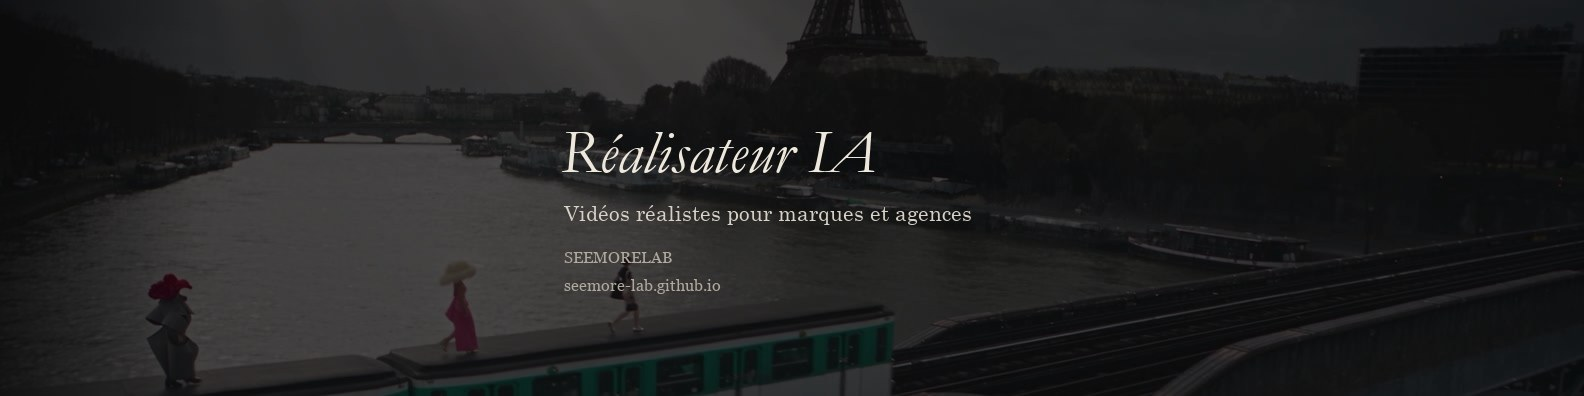
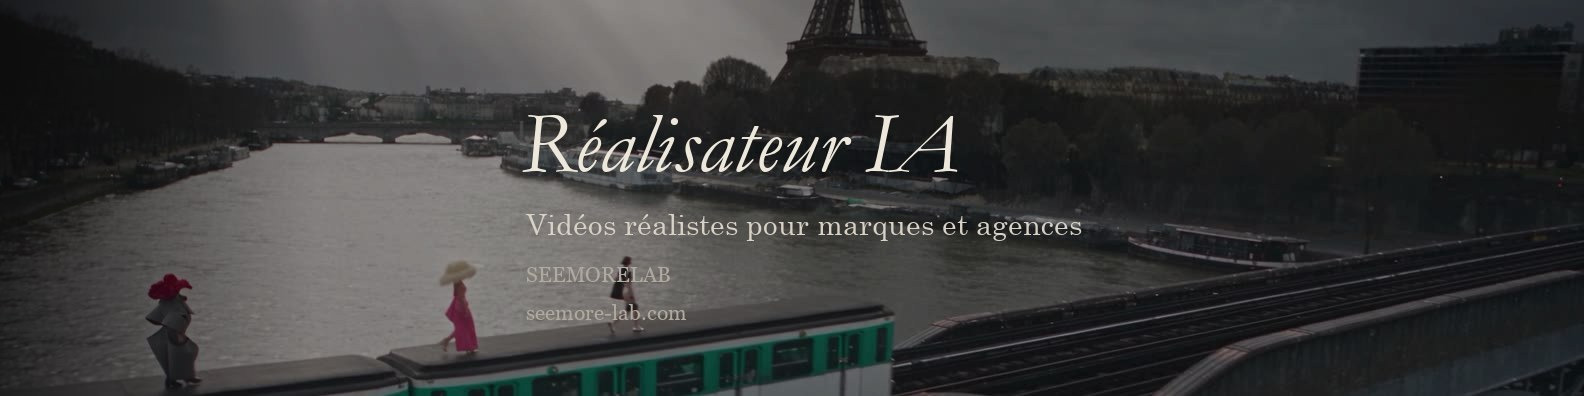
Contact : ajout du lien LinkedIn

diff --git a/index.html b/index.html
@@ -40,7 +40,7 @@
     "brand": { "@type": "Brand", "name": "SeemoreLab" },
     "alumniOf": "ESRA",
     "knowsAbout": ["Vidéo IA", "Publicité IA", "Packshot IA", "Réalisation", "Direction artistique"],
-    "sameAs": ["https://www.malt.fr/profile/seymourchasedugowson", "https://www.instagram.com/seemore_lab/"]
+    "sameAs": ["https://www.linkedin.com/in/seymourchasedugowson/", "https://www.instagram.com/seemore_lab/", "https://www.malt.fr/profile/seymourchasedugowson"]
   }
   </script>
 
@@ -264,8 +264,9 @@
     <h2 id="contact-title" class="contact__title reveal">Un film en tête&nbsp;?</h2>
     <a class="contact__mail reveal" href="mailto:seymourhono@gmail.com">seymourhono@gmail.com</a>
     <ul class="contact__links reveal">
-      <li><a href="https://www.malt.fr/profile/seymourchasedugowson" target="_blank" rel="noopener">Malt</a></li>
+      <li><a href="https://www.linkedin.com/in/seymourchasedugowson/" target="_blank" rel="noopener">LinkedIn</a></li>
       <li><a href="https://www.instagram.com/seemore_lab/" target="_blank" rel="noopener">Instagram</a></li>
+      <li><a href="https://www.malt.fr/profile/seymourchasedugowson" target="_blank" rel="noopener">Malt</a></li>
     </ul>
   </section>
 </main>
